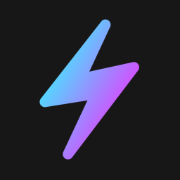
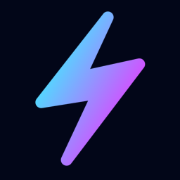
changes to colors

Changed region(s): [[0.3333, 0.3056, 0.8056, 0.9444], [0.1944, 0.0556, 0.6389, 0.6111], [0.5278, 0.2778, 0.5556, 0.3333]]

diff --git a/src/component/Home.tsx b/src/component/Home.tsx
@@ -26,7 +26,7 @@ export default function Home() {
   const router = useRouter();
   const { locations, saveLocation, removeLocation,  shortWeatherData, clearLocations } = useLocalStorageStore();
   const {isCurrentChecked, setIsCurrentChecked, isEditMode, setEditMode} = useHomeStore();
-  const {getCodeCondition, getCodeIcon} = useWeatherConfigStore()
+  const {getCodeCondition, getCodeIcon, getCodeBackground} = useWeatherConfigStore()
   const { getTimeDifference } = useDateConfigStore()
   const { getThreshold } = useSettingsStore();
   
@@ -170,9 +170,11 @@ export default function Home() {
         </p>}
       {!(locations.length >= 29) ? <button className="self-start" onClick={()=>setIsSearch(true)}>Add location</button> :
       <button className="self-start" onClick={clearLocations}>clear locations</button>}
-        {locations && <div className="flex flex-col items-start gap-3 w-full max-sm:items-stretch max-sm:px-1">
+        {locations && <div className="flex flex-col items-start gap-6 w-full max-sm:items-stretch max-sm:gap-3">
           {locations.map((loc: any) => (
-            <div key={loc.id} className="flex flex-col gap-3  items-center justify-between w-[80%] max-sm:w-[95%] rounded-lg shadow-md shadow-gray-900 py-3 px-1">
+            <div key={loc.id} 
+            className="flex flex-col gap-3  items-center justify-between w-full  rounded-xl shadow-md
+             bg-white/3 backdrop-blur-md border border-white/15 py-3 px-6 max-sm:px-1">
               <Link href={{pathname: '/weather', query: {id: loc.id, name: loc.name}}} prefetch={false}
               className="flex justify-between items-center w-full px-2 cursor-pointer" >
               <h3 className="flex flex-col items-start gap-1 cursor-pointer" >
@@ -201,7 +203,7 @@ export default function Home() {
       </div>
 
       {isSearch && (
-        <div ref={searchRef} className="absolute left-[50%] top-[7vh] transform translate-x-[-50%] bg-gray-900 w-[40%] h-[70%]
+        <div ref={searchRef} className="absolute left-[50%] top-[7vh] transform translate-x-[-50%] bg-[#181717] w-[40%] h-[70%]
         px-3 py-3 flex flex-col items-stretch gap-4 max-md:w-[70%] max-sm:w-[98%] z-35">
             <form onSubmit={searchLocation} className=" py-1.5  flex flex-col items-center gap-3">
               <input
@@ -232,7 +234,7 @@ export default function Home() {
           </div>
         </div>
       )}
-      {isEditMode && 
+      {isEditMode &&
       <div className="fixed bottom-[10%] left-[50%] -translate-x-[50%] flex gap-3 px-4 py-4 rounded-lg bg-gray-900/40 backdrop-blur-md shadow-xl text-nowrap">
         {locations.length < 31 && <button onClick={() => setIsSearch(true)}>add location</button>}
         <button onClick={()=> setEditMode(false)}>exit edit mode</button>

diff --git a/src/component/Weather.tsx b/src/component/Weather.tsx
@@ -189,8 +189,8 @@ function WeatherComonent(){
         <>
             {current ? (
                 <div
-                className={`absolute inset-0 w-full h-full flex flex-col items-center gap-[20%] max-sm:gap-[25%] pb-[10%]`}>
-                <div className={`w-full h-full fixed inset-0 ${getCodeBackground(current.code, isday)}`} />
+                className={`absolute inset-0 w-full h-full flex flex-col items-center gap-[20%] p-0 max-sm:gap-[25%]`}>
+                <div className={`w-full h-full fixed inset-0 m-0 p-0 ${getCodeBackground(current.code, isday)}`} />
 
                {/* Weather Animations */}
                  <Animations weatherCode={current.code} isDay={isday} />
@@ -202,7 +202,7 @@ function WeatherComonent(){
                         {temperatureUnitChart(Number(current?.temperature))}<span className="justify-self-start">°</span>
                     </h2>
                 </div>
-                <div className="flex items-center justify-center gap-7 max-md:gap-5 max-sm:flex-col max-sm:items-start max-sm:gap-2">
+                <div className="flex flex-col  justify-center gap-2">
                     <p className=" flex gap-1.5 items-center">
                         <HelperIcon icon="feelslike" /> <span className="opacity-85">Feels like</span>
                         {temperatureUnit(Number(current?.temperatureApparent))}
@@ -232,14 +232,13 @@ function WeatherComonent(){
             </div>
             {lastFetched && <div className="self-end flex items-center gap-1.5"> 
                 <HelperIcon icon="clock"/> last fetched: <span className="opacity-80">{getTimeDifference(lastFetched)}</span> </div>}
-            {!isFull && <div className="flex flex-col items-start gap-7">
+            {!isFull && <div className="flex flex-col items-start gap-12">
                 <h3>Smart AI summaries and insights</h3>
-                <div className="flex flex-col items-start gap-6">
-                    <div className="flex gap-7 flex-col items-start">
+                <div className="flex flex-col items-start gap-10">
+                    <div className="flex gap-10 flex-col items-start w-full">
                     <WeatherInsight weatherForecast={forecast}/>
                     </div>
-                    <div className="w-full h-0.5 bg-white/30"/>
-                    <div className="flex flex-col items-start gap-6">
+                    <div className="flex flex-col items-start gap-10 w-full">
                         <CautionAndActivities weatherForecast={forecast}/>
                     </div>
                 </div>

diff --git a/src/component/insights.tsx b/src/component/insights.tsx
@@ -34,15 +34,15 @@ export function WeatherInsight({ weatherForecast }: { weatherForecast: ForecastT
 
   return (
     <>
-      <div className="flex flex-col items-start gap-1 precipitation-insight">
-        <div className="flex gap-1 items-center">
+      <div className="flex flex-col items-start gap-2.5 precipitation-insight w-full">
+        <div className="flex gap-2.5 items-center justify-center w-full bg-white/3 backdrop-blur-md border border-white/15 rounded-md px-2 py-2.5">
           <HelperIcon icon="precipitation"/>
           <h3 className="opacity-80">{precipitationTitle}</h3>
         </div>
          {precipitationInsight && <>{precipitationInsight}</>}
       </div>
-      <div className="flex flex-col items-start gap-1 temperature-insight">
-        <div className="flex gap-1 items-center">
+      <div className="flex flex-col items-start gap-2.5 temperature-insight w-full">
+        <div className="flex gap-2.5 items-center justify-center w-full bg-white/3 backdrop-blur-md border border-white/15 rounded-md px-2 py-1">
           <HelperIcon icon="temperature"/>
           <h3 className="opacity-80">{temperatureTitle}</h3>
         </div>
@@ -74,16 +74,16 @@ export function CautionAndActivities({ weatherForecast}:{weatherForecast: Foreca
    return (
      <>
        {cautionInsight && (
-         <div className="flex flex-col gap-1 items-start caution-insight">
-       <div className="flex items-center gap-1 opacity-70">
+         <div className="flex flex-col gap-2.5 items-start caution-insight w-full">
+       <div className="flex items-center gap-2.5 w-full justify-center bg-white/3 backdrop-blur-md border border-white/15 rounded-md px-2 py-1">
          <HelperIcon icon="warning2"/>
          <h3 className="opacity-80">{cautionTitle}</h3>
        </div>
            {cautionInsight}
          </div>
        )}
-       {activityTitle && (<div className="flex flex-col gap-1 items-start actvity-insight">
-       <div className="flex items-center gap-1">
+       {activityTitle && (<div className="flex flex-col gap-2.5 items-start actvity-insight w-full">
+       <div className="flex items-center gap-2.5  w-full justify-center bg-white/3 backdrop-blur-md border border-white/15 rounded-md px-2 py-1">
          <HelperIcon icon="activity"/>
          <h3 className="opacity-80">{activityTitle}</h3>
        </div>

diff --git a/src/component/Settings.tsx b/src/component/Settings.tsx
@@ -81,9 +81,9 @@ export default function Settings(){
 
     return(
         <div className="flex flex-col items-start gap-5 px-20 pt-7 pb-14 max-md:px-10 max-sm:px-5">
-            <div className="flex flex-col items-stretch gap-2 w-full">
+            <div className="flex flex-col items-center gap-2 w-full">
                 {Object.entries(settings).map(([key, value])=>(
-                    <div key={key} className='flex flex-row justify-between w-[90%] max-sm:w-[95%] items-center px-10 max-sm:px-3 py-5 shadow-md shadow-black rounded-lg'>
+                    <div key={key} className='flex flex-row justify-between w-full items-center px-10 max-sm:px-3 py-5 shadow-md shadow-black border border-white/10 rounded-lg'>
                         <div>
                             <h4>{configtitle(key)}</h4>
                             <p className='opacity-70'>{configUnits(key, value)}</p>
@@ -91,7 +91,7 @@ export default function Settings(){
                         <button onClick={() =>handelOpenChangeCard(key)}>change</button>
                     </div>
                 ))}
-             <button onClick={handlereset} className='self-start flex flex-row'> <HelperIcon icon='resetlist'/>reset setting</button>
+             <button onClick={handlereset} className='self-start flex flex-row items-center gap-0.5'> <HelperIcon icon='resetlist'/>reset setting</button>
             </div>
 
             {showchangeCard && <div className='fixed top-[50%] left-[50%] transform translate-[-50%] bg-gray-900 px-5 py-3 flex flex-col min-w-[40vw]

diff --git a/src/app/ui/global.css b/src/app/ui/global.css
@@ -3,7 +3,9 @@
 
 html,body {
   font-family: var(--font-inter), sans-serif;
-  @apply bg-gray-800 text-white overflow-x-hidden max-w-screen;
+  @apply min-h-screen bg-gradient-to-r from-slate-950 to-violet-800 text-white bg-fixed overflow-x-hidden max-w-screen;
+  margin: 0;
+  padding: 0;
 }
 
 
@@ -12,9 +14,9 @@ h1{
 }
 
 button:not(.no-global-style){
-  @apply bg-blue-400/15 backdrop-blur-md
+  @apply bg-white/7 backdrop-blur-md
    text-white hover:bg-blue-600 border
-    border-white/30 active:bg-blue-900 cursor-pointer px-5 py-1.5 rounded-md max-sm:px-2 max-sm:py-1;
+    border-white/15 active:bg-blue-900 cursor-pointer px-5 py-1.5 rounded-md max-sm:px-2 max-sm:py-1;
 }
 .hide-scrollbar{
   -ms-overflow-style: none;

diff --git a/src/app/manifest.ts b/src/app/manifest.ts
@@ -21,8 +21,8 @@ export default function manifest(): MetadataRoute.Manifest{
         ],
         start_url: "/",
         display: "standalone",
-        theme_color: "#1e2939",
-        background_color: "#1e2939"
+        theme_color: "#59168b",
+        background_color: "#020618"
     }
 
 }
